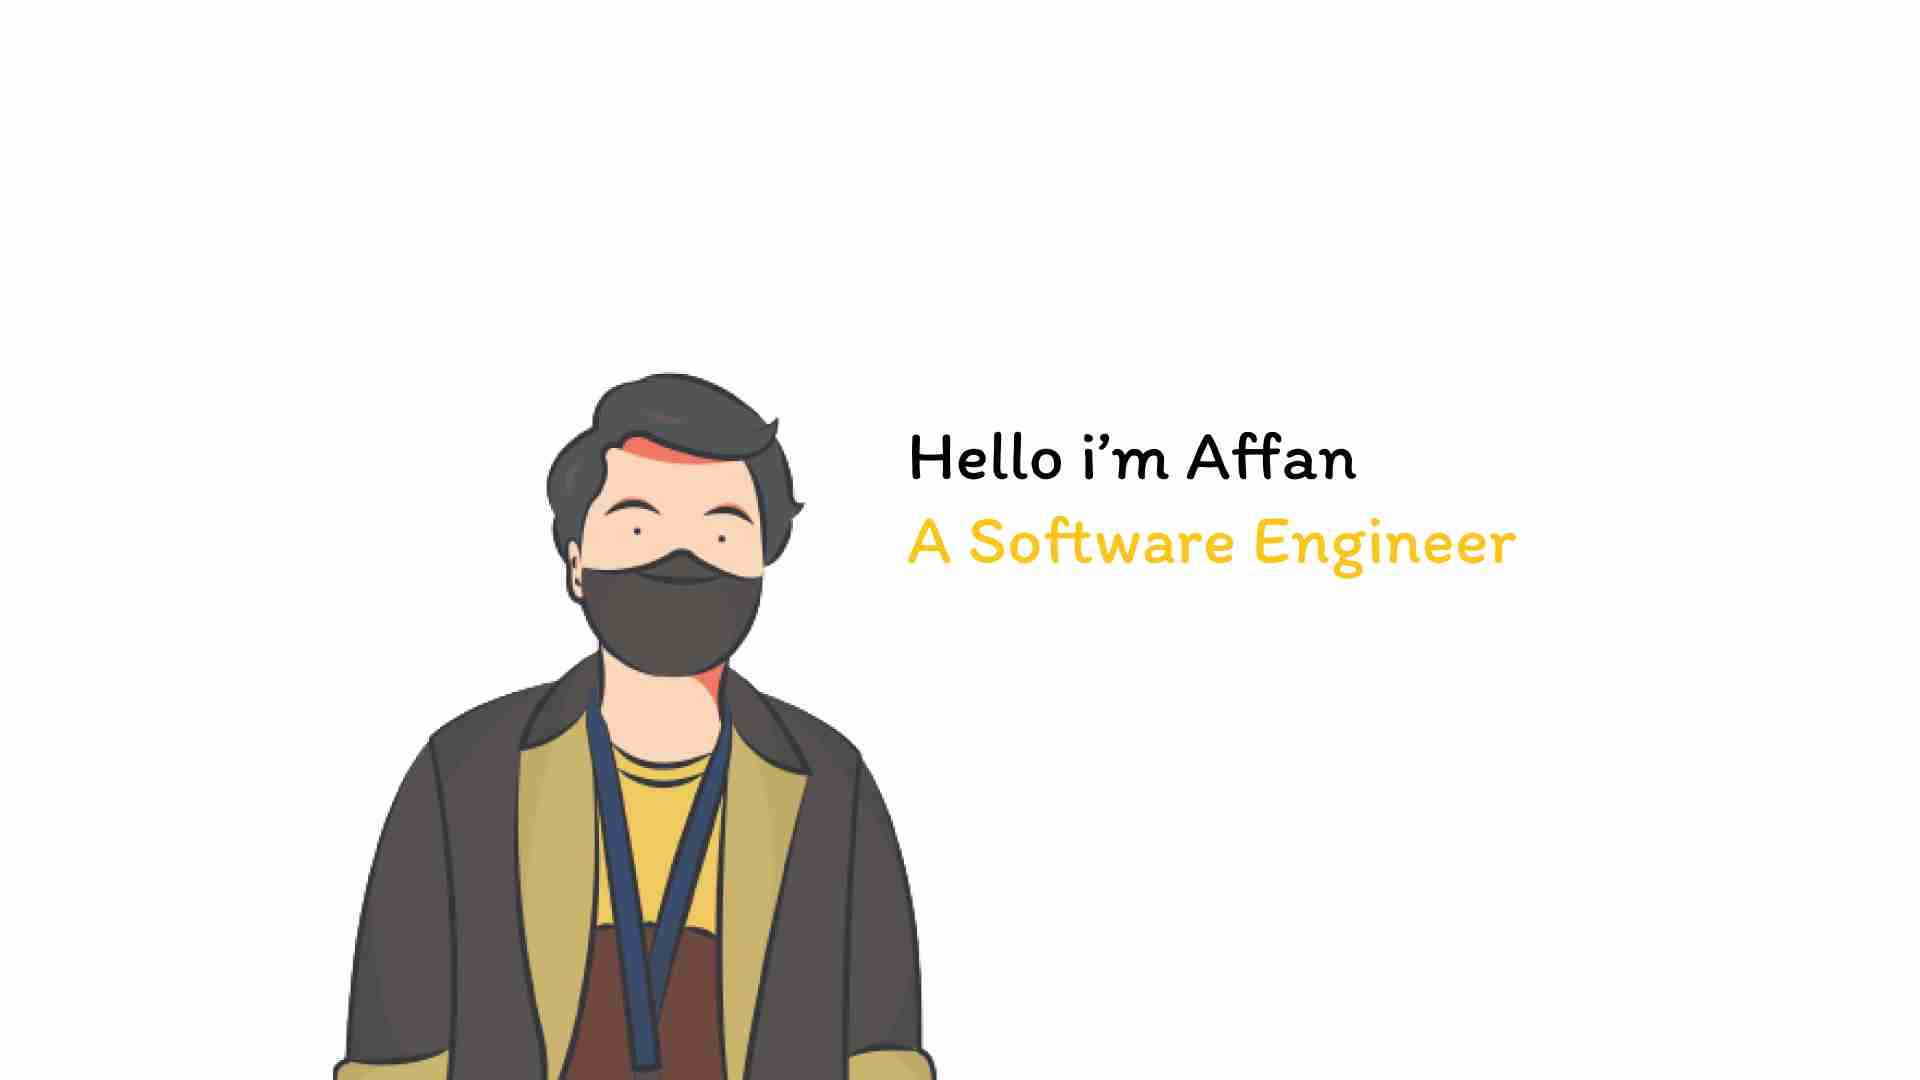
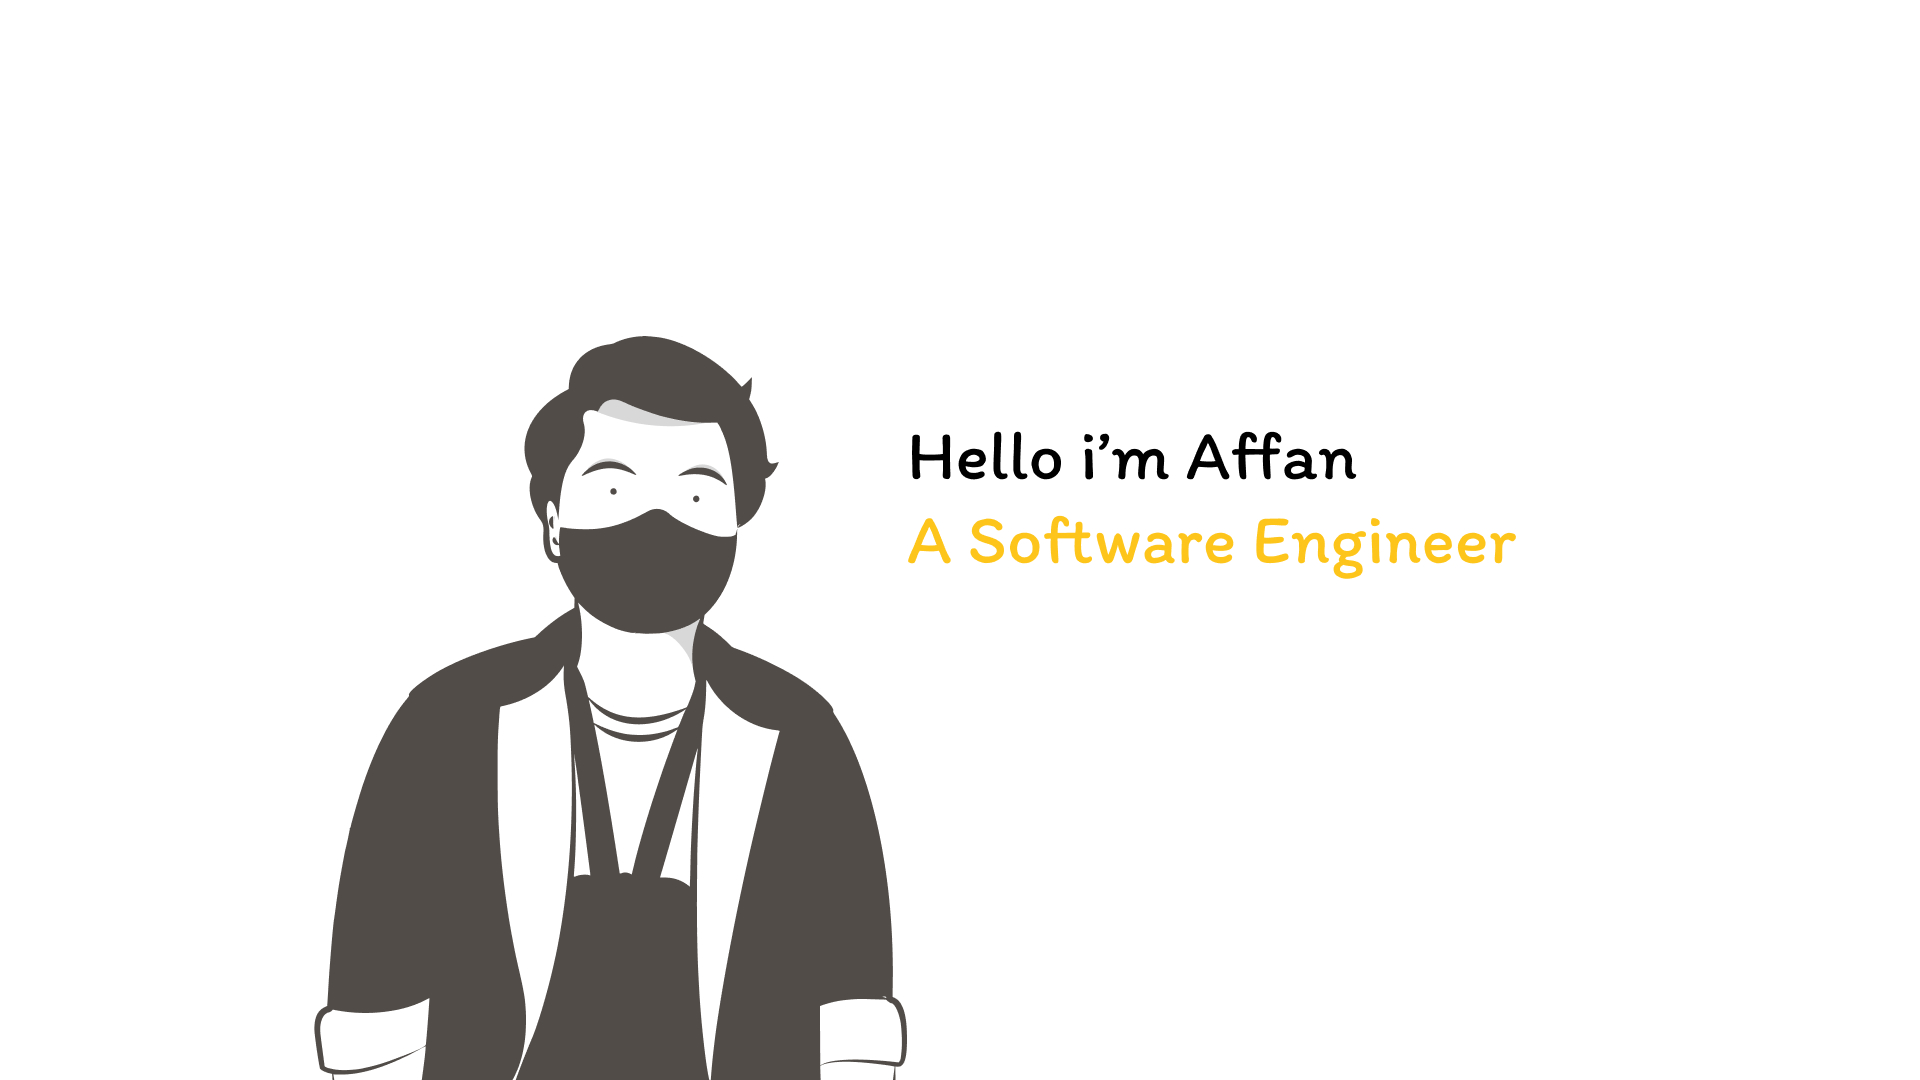
update heros

Changed region(s): [[0.1562, 0.3056, 0.5, 1.0], [0.4688, 0.4583, 0.7812, 0.55]]

diff --git a/components/Heros.tsx b/components/Heros.tsx
@@ -7,23 +7,34 @@ const Heros = () => {
     <>
       <div className="flex flex-col items-center z-0 md:mx-2 ">
         <div className="flex flex-col justify-center min-h-screen mx-10 max-width-component w-full  px-10">
-          <div className="text-5xl font-medium">
-            <p>Hello I’m Ananda Affan Fattahila</p>
+          <div className="text-5xl font-bold ">
+            <p className="">Hello I’m Ananda Affan Fattahila 👋</p>
           </div>
           <div className="mt-5">
             <p>
-            You can call me Affan, I'm currently studying to become a Software Engineer and Product Engineer.
+              You can call me Affan, I'm a Software Engineer and Product Engineer Entusiast. 
+              I'm Currently working as a <span className=" underline decoration-yellow-400 decoration-2 font-semibold">CEO</span> at
+              <NextLink  href="https://kerjago.com" passHref>
+                <a className="font-semibold underline decoration-yellow-400 decoration-2"> kerjago.com</a>
+              </NextLink>
+              , to be <span className="font-semibold underline decoration-yellow-400 decoration-2">Student Backend Engineer</span> at
+              <NextLink  href="https://sites.google.com/anakbangsabisa.org/generasi-gigih/" passHref>
+                <a className="font-semibold underline decoration-yellow-400 decoration-2"> Generasi Gigih 2.0 by YABB & GoTo</a>
+              </NextLink> and Internship at <NextLink  href="https://www.tiket.com/careers/" passHref>
+                <a className="font-semibold underline decoration-yellow-400 decoration-2">Tiket.com </a>
+              </NextLink> 
+              became <span className="font-semibold underline decoration-yellow-400 decoration-2">Backend Engineer.</span>
             </p>
           </div>
           
-          <div className=" flex mt-6 gap-4">
-            <button onClick={()=>{router.push("https://github.com/fanzru")}} className="btn btn-outline"><AiFillGithub/></button>
-            <button onClick={()=>{router.push("https://linkedin.com/in/fanzru")}} className="btn btn-outline"><AiFillLinkedin/></button>
-            <button onClick={()=>{router.push("https://drive.google.com/file/d/1ZJOVIRIPiFP6LbCHHPdFLjMocq4ZwFM8/view?usp=sharing")}} className="btn btn-outline"><AiFillFileText/></button>
+          <div className=" flex mt-6 gap-4 mb-5">
+            <button onClick={()=>{router.push("https://github.com/fanzru")}} className="border-2 border-dashed btn btn-outline"><AiFillGithub/></button>
+            <button onClick={()=>{router.push("https://linkedin.com/in/fanzru")}} className="border-2 border-dashed  btn btn-outline"><AiFillLinkedin/></button>
+            <button onClick={()=>{router.push("https://drive.google.com/file/d/1ZJOVIRIPiFP6LbCHHPdFLjMocq4ZwFM8/view?usp=sharing")}} className="border-2 border-dashed  btn btn-outline"><AiFillFileText/></button>
           </div>
           
           <NextLink href={'https://www.linkedin.com/in/fanzru/'} passHref>
-              <a className="underline mt-5">More About me</a>
+              <a className="font-semibold underline decoration-yellow-400 decoration-2">More About me!!!</a>
           </NextLink>
         </div>
       </div>

diff --git a/components/Navbar/Navbar.tsx b/components/Navbar/Navbar.tsx
@@ -10,7 +10,7 @@ const Navbar = () => {
         <div className="max-width-component w-full ">
           <div className="w-full flex justify-between h-full items-center  ">
             <NextLink  href={'/'} passHref>
-                <a className="h-full flex items-center font-xl font-semibold px-4">
+                <a className="h-full flex items-center font-xl font-light px-4">
                   fanzru.dev
                 </a>
             </NextLink>

diff --git a/data/heros.ts b/data/heros.ts
@@ -1,0 +1,7 @@
+export const dataHeros = `
+
+You can call me Affan, I'm a Software Engineer and Product Engineer Entusiast. 
+Currently I'm do became <span className="font-bold">CEO</span> at <a>kerjago.com</a>
+, Study Independent at 
+
+`
